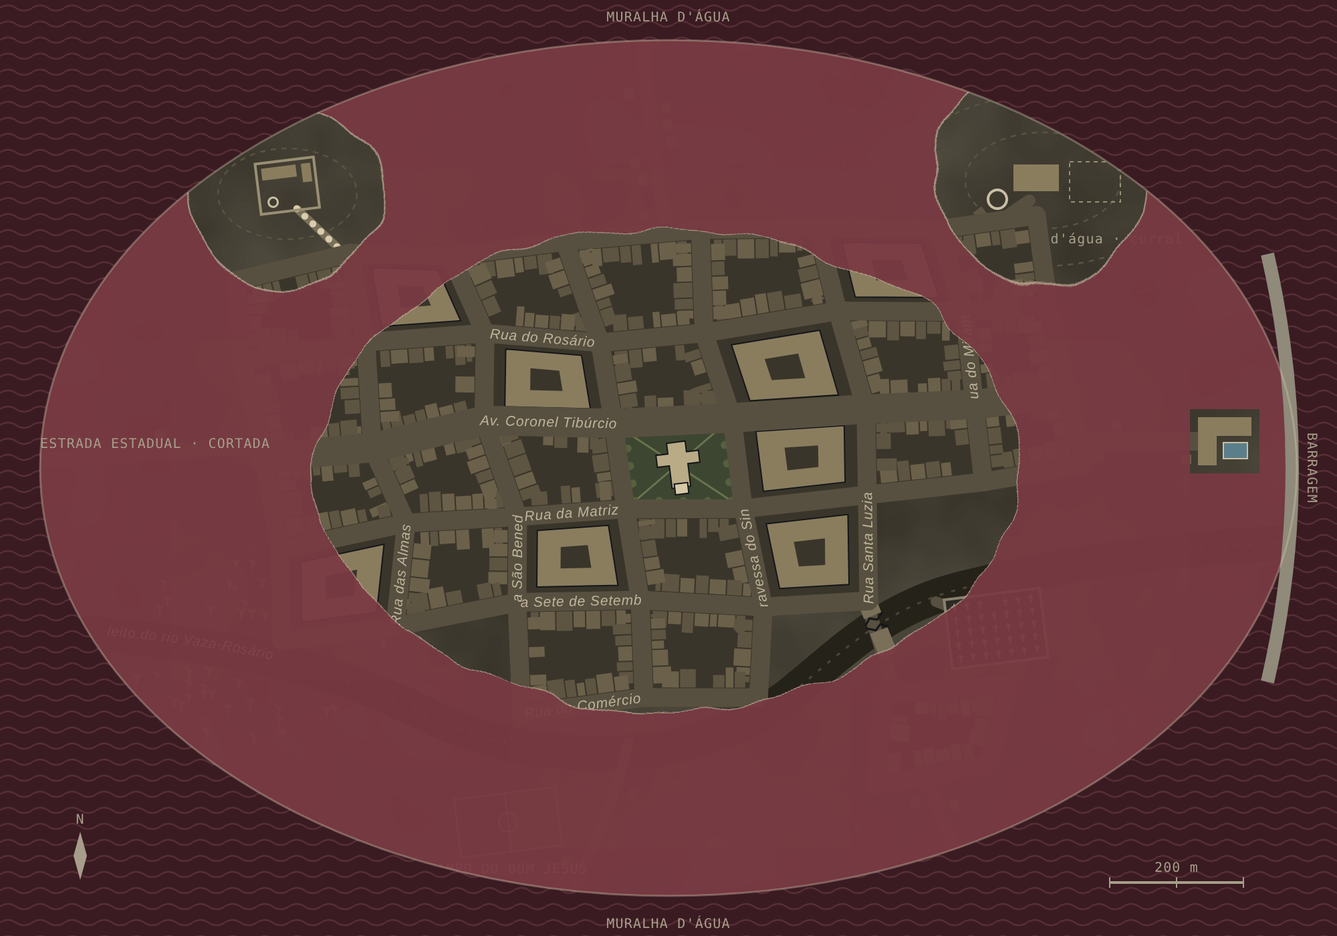
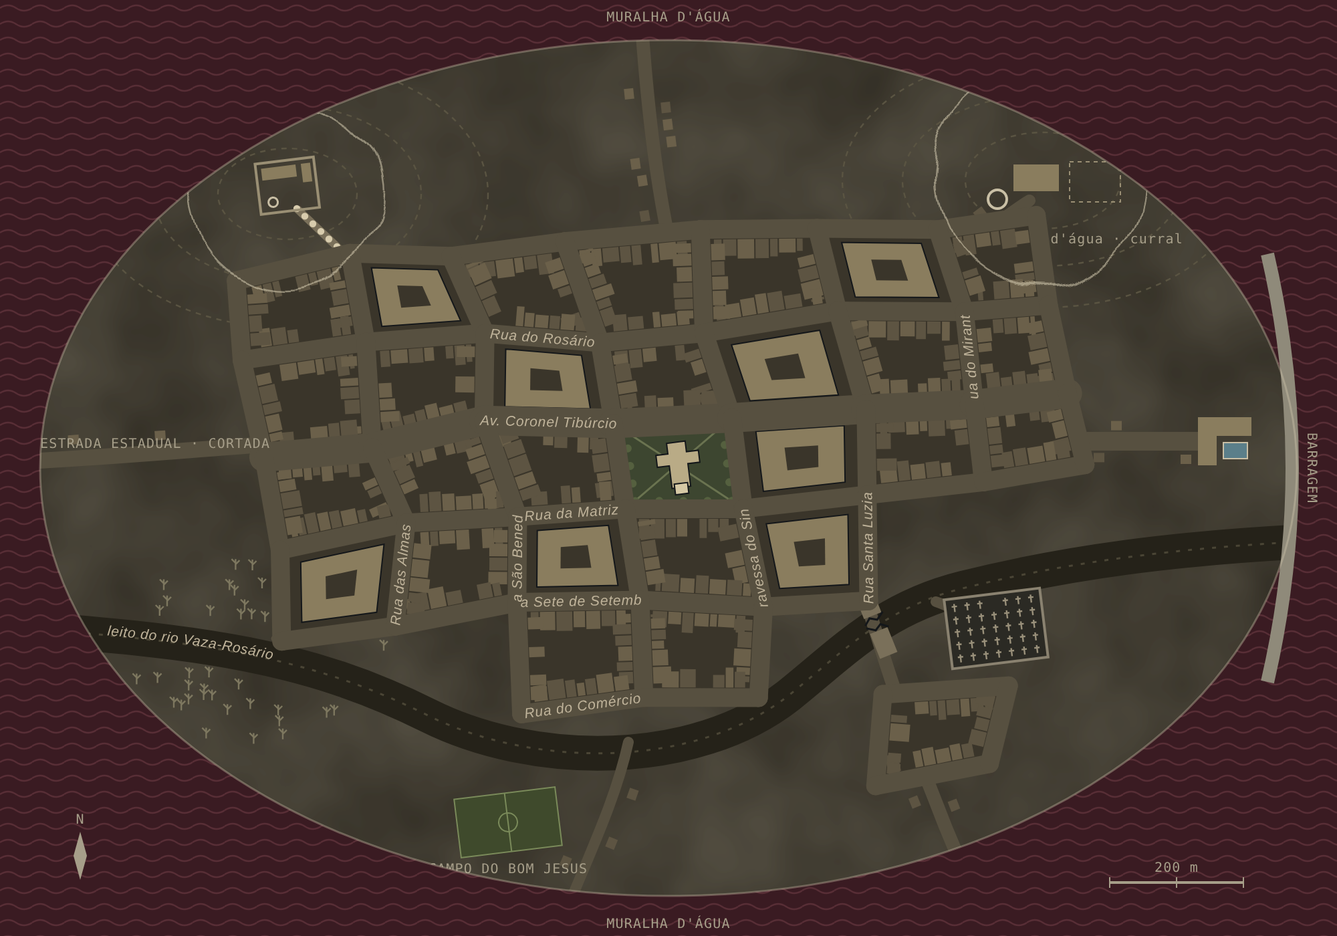
Mapa v1.2.0: a água só volta no dia 6
Dias 1 a 5 com a cidade toda seca e a represa mudando de cor; no dia 6
tudo afunda menos a praça da Matriz e o Hotel. Textos dos locais e dos
dias ajustados, imagens refeitas, rituais salvos atualizados sem perder
o que já foi liberado.

Claude-Session: https://claude.ai/code/session_01TH2mSxzafd1d5khUSYUmEi

diff --git a/mapa/locais.js b/mapa/locais.js
@@ -3,7 +3,7 @@
    txt = o que se vê ao chegar · din = detalhes que o mestre libera um a um
    alerta = aviso em destaque · notas = segredo e como descobrir (só o mestre vê) */
 
-export const VERSAO_LOCAIS = 2;
+export const VERSAO_LOCAIS = 3;
 
 export const EQUIPES = {
   "Os da Floresta": "#7f9b4f",
@@ -18,12 +18,12 @@ export const TIPOS = { base: "Base", enigma: "Enigma", explorar: "Exploração" 
 
 // texto completo do dia (só o mestre vê)
 export const DIAS_MESTRE = {
-  1: ["A água recua", "A cidade inteira reaparece. A represa ainda tem a cor de sempre."],
+  1: ["A água recua", "A cidade inteira reaparece. A represa ainda tem a cor de sempre. A água só volta no dia 6."],
   2: ["A represa escurece", "A água ainda não volta, mas a muralha começa a mudar de cor. Quem encosta nela sente que está morna."],
   3: ["A muralha treme", "A muralha range e escorre filetes vermelhos pelas ruas da borda. A cidade ainda está seca, mas não por muito tempo."],
-  4: ["A água volta", "A margem afunda de uma vez: Mata dos Afogados, Feira, Santa Casa e Cemitério. Fazenda, topo do Calvário e Hotel Bela Vista viram ilhas."],
-  5: ["A água vira sangue", "Matadouro, Ponte Partida, Casarão e o Calvário afundam. A represa está vermelha."],
-  6: ["Só a praça da Matriz", "O último anel da cidade afunda, a Fazenda junto. Resta a praça da igreja, no centro, cercada de sangue, e o Hotel ilhado na rocha."]
+  4: ["A represa ferve", "A cidade continua seca, mas a muralha está vermelho-escura e borbulha na base. À noite se ouve a água batendo como um sino."],
+  5: ["A água vira sangue", "A represa está vermelha como sangue. A cidade ainda está seca: é o último dia com todos os locais de pé."],
+  6: ["A água volta", "A represa desaba sobre a cidade de uma vez. Tudo afunda menos a praça da Matriz, no centro, e o Hotel Bela Vista, ilhado na rocha."]
 };
 
 // texto que os jogadores veem (sem entregar o que vai afundar)
@@ -31,9 +31,9 @@ export const DIAS_JOGADOR = {
   1: ["A água recua", "A cidade inteira reaparece, coberta de lama e limo."],
   2: ["A represa escurece", "A muralha d'água mudou de cor. Quem encosta nela sente que está morna."],
   3: ["A muralha treme", "A muralha range. Filetes vermelhos escorrem pelas ruas da borda."],
-  4: ["A água volta", "A represa avançou sobre a margem da cidade."],
-  5: ["A água vira sangue", "A água está vermelha e já chega aos bairros do meio."],
-  6: ["Só a praça da Matriz", "Sobrou a praça da igreja, cercada de sangue."]
+  4: ["A represa ferve", "A muralha está vermelho-escura e borbulha na base. À noite, a água bate como um sino."],
+  5: ["A água vira sangue", "A represa está vermelha como sangue. A muralha se curva sobre a cidade."],
+  6: ["A água volta", "A represa desabou. Sobrou a praça da igreja, cercada de sangue."]
 };
 
 const L = (o) => o;
@@ -53,14 +53,14 @@ export const LOCAIS_PADRAO = [
       "Melhoria · Enfermaria: 1 kit de cura (Santa Casa) + roupa de cama + 1 sucata. +2 em Medicina e +1d6 PV no descanso lá dentro.",
       "Melhoria · Gerador: 4 sucata + 1 galão de diesel (jipe da Delegacia ou carros da Ponte) + Tecnologia DT 20. Luz à noite (+2 Percepção); o letreiro acende se quiserem.",
       "Melhoria · Mirante no terraço: 2 sucata + binóculo da Delegacia (ou a luneta dos Queiroz). Uma vez por dia, ver quem entra e sai de três locais.",
-      "Melhoria · Filtro de água: 3 sucata + areia do rio + carvão de Os da Floresta. Até 2 água limpa por dia, até o dia 5.",
+      "Melhoria · Filtro de água: 3 sucata + areia do rio + carvão de Os da Floresta. Até 2 água limpa por dia, até o dia 4 (depois a represa fica vermelha demais).",
       "Melhoria · Horta da piscina: 2 água por dia durante 2 dias + mudas da Família Queiroz. Depois, 1 comida por dia.",
       "Melhoria · Despensa de conserva: 1 sucata + sal grosso dos Comensais. Comida guardada no hotel não estraga.",
       "Melhoria · Sala de leitura: 1 sucata + três livros da biblioteca dos Zahab. +2 em Investigação e Ocultismo no hotel.",
       "Melhoria · Salão de música: 2 sucata + um instrumento da Romaria (zabumba ou pífano). Uma noite de música por dia: todos recuperam 1d6 de Sanidade.",
       "Melhoria · Suíte 1: a chave (com o coronel, na Delegacia) ou Crime DT 25 + 2 sucata. Melhor quarto, com cofre e acesso ao terraço."
     ],
-    alerta: "Nunca afunda, mas vira ilha no dia 4: daí em diante só se chega nadando (Atletismo DT 15) ou pela passarela da barragem.",
+    alerta: "Nunca afunda, mas vira ilha no dia 6: daí em diante só se chega nadando (Atletismo DT 15) ou pela passarela da barragem.",
     notas: "SEGREDO: o coronel construiu o hotel sabendo da inundação (\"Lago Tibúrcio\", margens loteadas). A família esperou por ele na suíte na noite de 2 de maio; ele estava preso na Delegacia. Pouco antes das 3h do dia 3, Celina desceu com Clarinha para procurá-lo e as duas nunca voltaram. No cofre da suíte: carta do engenheiro (as comportas podiam fechar uma semana depois) e o recibo do que o coronel pagou para adiantar.\n\nCOMO DESCOBRIR: 1) placa + livro de hóspedes levantam a pergunta. 2) diário do zelador. 3) salão de música abre o alçapão do palco: disco com o ensaio do discurso (\"bem-vindos às margens do Lago Tibúrcio\"). 4) sala de leitura (planta) + gerador (luz no porão) levam à parede do depósito 2: maquete do loteamento (2 sucata, 1 hora). 5) chave da suíte com o corpo do coronel; na suíte, malas e bilhete \"desci com a Clarinha para te procurar\". 6) cofre da suíte: 14-08-62 (mesma combinação do Casarão). Mirante revela a luneta apontada para a torre; horta revela a placa \"Loteamento Praia do Lago\"." }),
 
   L({ id: "fazenda", nome: "Fazenda Alto do Cruzeiro", tipo: "base", eq: "Família Queiroz", x: 780, y: 128, alaga: 6,
@@ -74,14 +74,14 @@ export const LOCAIS_PADRAO = [
       "Escritura no fundo falso do oratório (Percepção DT 20): a fazenda foi do coronel Tibúrcio.",
       "Luneta de latão no quarto do coronel (Crime DT 20): uma vez por dia, ver o que uma equipe está fazendo."
     ],
-    alerta: "Vira ilha no dia 4 e só afunda no dia 6. É o refúgio mais cobiçado do fim do ritual.",
-    notas: "SEGREDO: o poço não acaba em água. A dez metros há um túnel antigo até a cripta da Matriz (Atletismo DT 20 com corda e luz). Chega por baixo ao campanário invertido, mas a passagem tem uma grade com cinco fechaduras.\n\nCOMO DESCOBRIR: 1) a corda é longa demais para cinco metros de poço (Percepção DT 15). 2) mapa de 1950 no sótão do Cartório mostra o túnel. 3) descer leva à grade; as chaves estão no cofre do Casarão.\n\nO poço fica vermelho no dia 6." }),
+    alerta: "Único poço de água limpa até o fim. Afunda no dia 6, com o resto da cidade.",
+    notas: "SEGREDO: o poço não acaba em água. A dez metros há um túnel antigo até a cripta da Matriz (Atletismo DT 20 com corda e luz). Chega por baixo ao campanário invertido, mas a passagem tem uma grade com cinco fechaduras.\n\nCOMO DESCOBRIR: 1) a corda é longa demais para cinco metros de poço (Percepção DT 15). 2) mapa de 1950 no sótão do Cartório mostra o túnel. 3) descer leva à grade; as chaves estão no cofre do Casarão.\n\nNo dia 5 a água do poço já sai rosada; no dia 6 a fazenda afunda." }),
 
-  L({ id: "calvario", nome: "Morro do Calvário", tipo: "base", eq: "A Romaria", x: 215, y: 140, alaga: 5,
+  L({ id: "calvario", nome: "Morro do Calvário", tipo: "base", eq: "A Romaria", x: 215, y: 140, alaga: 6,
     txt: "Uma escadaria de pedra com as 14 estações da Via-Sacra sobe até um topo murado: o Pouso dos Romeiros, de 1921, com rancho, cozinha, cisterna e a gruta onde o andor da santa descansa.",
     din: [
       "Áreas: escadaria (uma pessoa por vez), portão e muro com seteiras, rancho dos romeiros com redes para quarenta, cozinha comunitária, Casa dos Milagres (ex-votos), Gruta da Santa, cisterna, barracas de lembrança e cruzeiro.",
-      "Cisterna: 1 água limpa por dia, até o dia 3. Barracas: velas para seis noites e 1 sucata.",
+      "Cisterna: 1 água limpa por dia, até o dia 4. Barracas: velas para seis noites e 1 sucata.",
       "Baús do rancho: zabumba, pífano e matraca. O Hotel precisa de um deles para o salão de música.",
       "Estação 1: um sino de mão que avisa o topo quando alguém começa a subir.",
       "Estação 6 (Percepção DT 15): um pano com o rosto de alguém da mesa, marcado a sangue.",
@@ -92,7 +92,7 @@ export const LOCAIS_PADRAO = [
       "Cântico da Romaria (Religião DT 15): \"o sino que toca para dentro\" e \"a corda que a santa guarda\".",
       "A santa chora sangue quando um sacrifício morre, e a Romaria sabe antes de todos."
     ],
-    alerta: "No dia 4 a escadaria afunda até a estação 9 e o topo vira ilha. No dia 5 o morro inteiro vai para o fundo.",
+    alerta: "Afunda no dia 6. Antes disso, a Romaria vai querer levar o andor para a praça da Matriz em procissão.",
     notas: "SEGREDO: o andor tem fundo oco com a corda original do sino de Luzia. Sem ela (ou outra trançada com cabelo de um sacrifício) o enigma não se resolve. A Romaria só a entrega em troca de uma relíquia: uma parte do corpo de um sacrifício de outra equipe.\n\nCOMO DESCOBRIR: 1) a corda de Luzia falta na torre da Matriz. 2) o cântico fala da corda que a santa guarda. 3) sessão \"Festa do Bom Jesus\" no Cine Teatro mostra a corda amarrada no andor. 4) o fundo do andor soa oco (Percepção DT 20).\n\nPerigos: fundos do morro só por escalada (Atletismo DT 20); velas acesas deixam o topo visível à noite." }),
 
   L({ id: "mata", nome: "Mata dos Afogados", tipo: "base", eq: "Os da Floresta", x: 195, y: 480,
@@ -108,7 +108,7 @@ export const LOCAIS_PADRAO = [
       "Cova rasa na clareira (Investigação DT 20): um corpo com roupas de outra época.",
       "Placa caída: \"Bom Jesus do Açude, fundada em 1889\"."
     ],
-    alerta: "É a primeira base a afundar, no dia 4. A Floresta vai precisar tomar a casa de alguém.",
+    alerta: "Afunda no dia 6. Até lá, é o melhor terreno de emboscada da arena.",
     notas: "SEGREDO: a mata foi plantada pelo padre Anselmo, uma árvore para cada morador que saiu antes da inundação, com plaquinhas de latão nos troncos. Os que ficaram estão no cruzeiro da Fazenda.\n\nCOMO DESCOBRIR: 1) plaquinhas meio engolidas pela casca (Investigação DT 20). 2) nomes batem com os registros de mudança no porão do Cartório. 3) livro de tombo da Matriz: \"plantei hoje mais doze, uma por família que partiu\".\n\nO ano 1889 da placa abre o cofre do Cartório." }),
 
   L({ id: "matadouro", nome: "Matadouro Municipal", tipo: "base", eq: "Os Comensais", x: 480, y: 502,
@@ -122,8 +122,8 @@ export const LOCAIS_PADRAO = [
       "Cofre do fiscal (Crime DT 20): uma chave com etiqueta \"sacristia\". Abre o armário da sacristia da Matriz.",
       "A câmara fria tranca por fora: Fortitude DT 15 por hora ou 1d6 PV de frio. Chão da sala de abate escorregadio em combate."
     ],
-    alerta: "Base quase sempre desguarnecida à noite, porque os Comensais saem para caçar. Afunda no dia 5.",
-    notas: "SEGREDO: a câmara funciona com Sangue. Um coração humano pendurado ainda bate; destruí-lo faz a comida apodrecer na hora.\n\nCOMO DESCOBRIR: 1) não há fio, motor nem gerador (Tecnologia DT 15). 2) batida fraca dentro da câmara (Percepção DT 20). 3) embrulho de lona no gancho do fundo; Ocultismo DT 20 para entender. 4) o livro do fiscal completa a história.\n\nDepois do dia 5, a carne continua fresca para quem mergulhar (Atletismo DT 20)." }),
+    alerta: "Base quase sempre desguarnecida à noite, porque os Comensais saem para caçar. Afunda no dia 6.",
+    notas: "SEGREDO: a câmara funciona com Sangue. Um coração humano pendurado ainda bate; destruí-lo faz a comida apodrecer na hora.\n\nCOMO DESCOBRIR: 1) não há fio, motor nem gerador (Tecnologia DT 15). 2) batida fraca dentro da câmara (Percepção DT 20). 3) embrulho de lona no gancho do fundo; Ocultismo DT 20 para entender. 4) o livro do fiscal completa a história.\n\nNo dia 6, a carne continua fresca para quem mergulhar (Atletismo DT 20)." }),
 
   L({ id: "cartorio", nome: "Cartório, Biblioteca e Câmara", tipo: "base", eq: "Os Zahab", x: 612, y: 298, ly: -20,
     txt: "Sobrado de esquina com azulejo português, CARTÓRIO em letras de ferro e o brasão da cidade. Livros de registro inchados de água no térreo, biblioteca em cima e uma porta interna para a Câmara Municipal, ao lado.",
@@ -137,7 +137,7 @@ export const LOCAIS_PADRAO = [
       "Biblioteca: almanaque, código civil e anuário. O Hotel precisa deles para a sala de leitura.",
       "Papel, tinta e lacre: para falsificar documentos ou mandar recados."
     ],
-    alerta: "Muitas janelas, escada podre e livros que pegam fogo. Afunda no dia 6; no dia 5 a água já molha o térreo.",
+    alerta: "Muitas janelas, escada podre e livros que pegam fogo. Afunda no dia 6.",
     notas: "SEGREDO: a Câmara votou 7 a 2 contra a venda. O tabelião Oswaldo Brandão, pago pelo coronel, fez uma ata falsa com unanimidade e falsificou sete assinaturas. Confissão e o dinheiro intocado estão no cofre de parede.\n\nCOMO DESCOBRIR: 1) jornal de 1972 (Investigação DT 20) diz rejeitada; ata do gabinete diz aprovada. 2) comparar assinaturas com certidões de casamento (Investigação DT 20): sete na mesma letra. 3) a letra é a do tabelião. 4) cofre: Crime DT 20 ou 1-8-8-9 (brasão da fachada, placa da Mata). 5) sessão \"Sessão da Câmara\" no Cine Teatro mostra sete mãos contra." }),
 
   /* ---------------- enigma ---------------- */
@@ -165,8 +165,8 @@ export const LOCAIS_PADRAO = [
       "Jazigo dos Tibúrcio (Crime DT 20): joias e um revólver no caixão do coronel, mas nenhum corpo. Ao lado, gavetas vazias reservadas para Celina e Maria Clara.",
       "Flores frescas nos cinco (Percepção DT 15): alguém da arena esteve aqui hoje."
     ],
-    alerta: "Afunda no dia 4. Quem não anotou as datas perde a pista mais fácil.",
-    notas: "SEGREDO: o coronel nunca foi enterrado; o corpo está na cela trancada da Delegacia. O caixão é um enterro simbólico.\n\nCOMO DESCOBRIR: 1) caixão vazio. 2) livro de ocorrências e cela trancada da Delegacia. 3) gavetas de Celina e Maria Clara ligam ao mistério do Hotel.\n\nDepois do dia 4: datas no arquivo do Cartório ou no filme de 2 de maio do Cine Teatro; deitar no túmulo exige mergulhar (Fortitude DT 20)." }),
+    alerta: "Afunda no dia 6. Quem não anotou as datas até lá perde a pista mais fácil.",
+    notas: "SEGREDO: o coronel nunca foi enterrado; o corpo está na cela trancada da Delegacia. O caixão é um enterro simbólico.\n\nCOMO DESCOBRIR: 1) caixão vazio. 2) livro de ocorrências e cela trancada da Delegacia. 3) gavetas de Celina e Maria Clara ligam ao mistério do Hotel.\n\nNo dia 6: datas no arquivo do Cartório ou no filme de 2 de maio do Cine Teatro; deitar no túmulo exige mergulhar (Fortitude DT 20)." }),
 
   L({ id: "correios", nome: "Correios", tipo: "explorar", eq: "", x: 390, y: 280, ly: -16,
     txt: "Agência pequena de placa amarela e azul desbotada, com uma caixa de coleta trancada na calçada. Escaninhos de madeira e sacos de lona até o teto. O último carimbo marca 02 MAI 1974.",
@@ -177,7 +177,7 @@ export const LOCAIS_PADRAO = [
       "Telegrama posto na caixa de coleta chega ao escaninho de outra base na manhã seguinte.",
       "Ler carta de morto: Vontade DT 15 ou passa a noite sem descanso."
     ],
-    alerta: "Afunda no dia 6. No dia 5 a água encharca os sacos de baixo.",
+    alerta: "Afunda no dia 6, com as cartas que ninguém leu.",
     notas: "SEGREDO: a caixa de coleta ainda entrega tudo, inclusive para as equipes NPC. Canal para negociar sem se encontrar e para ameaças.\n\nCOMO DESCOBRIR: 1) formulários com carimbo da data de hoje (Percepção DT 15). 2) carta posta some; a caixa aberta (Crime DT 20) está vazia. 3) na manhã seguinte, a carta chega ao destino." }),
 
   L({ id: "cine", nome: "Cine Teatro", tipo: "explorar", eq: "", x: 400, y: 420, ly: 24,
@@ -194,7 +194,7 @@ export const LOCAIS_PADRAO = [
       "Coroa de espinhos de arame nas coxias: +5 na Vontade do erro durante o toque. Doces da bombonière: 1 comida.",
       "Interromper a sessão: Vontade DT 20 ou fica preso na cadeira. Teto podre em combate."
     ],
-    alerta: "Afunda no dia 6. Na noite do dia 5, a sessão roda com o saguão já alagado.",
+    alerta: "Afunda no dia 6, com a plateia de roupas vazias ainda sentada.",
     notas: "SEGREDO: o operador era Adauto, zelador do Hotel. O filme de 2 de maio foi feito do terraço do hotel, com a luneta, a pedido do coronel.\n\nCOMO DESCOBRIR: 1) escala na porta da cabine: só \"Adauto\". 2) a letra das etiquetas é a do diário do zelador (Investigação DT 15). 3) a grade de varanda no canto da imagem é a do terraço do Hotel." }),
 
   L({ id: "santa", nome: "Santa Casa", tipo: "explorar", eq: "", x: 310, y: 200, ly: -16,
@@ -208,7 +208,7 @@ export const LOCAIS_PADRAO = [
       "Hábitos das freiras: a Romaria ignora quem os usa até falar ou atacar.",
       "Ficar ferido na enfermaria: Vontade DT 15 por hora ou 1d4 de Sanidade."
     ],
-    alerta: "Afunda no dia 4. Na manhã do dia 4 ainda há uma hora antes de a água chegar à farmácia.",
+    alerta: "Afunda no dia 6. Os remédios que sobrarem vão junto.",
     notas: "SEGREDO: o padre afogou os cinco num ritual para preparar o sino, um por santo. O paciente da ala trancada era o coroinha e viu tudo.\n\nCOMO DESCOBRIR: 1) prontuários. 2) filme da Ponte no Cine Teatro (Irmandade dos Sinos). 3) o paciente conta, se solto e bem tratado (Diplomacia DT 15)." }),
 
   L({ id: "delegacia", nome: "Delegacia", tipo: "explorar", eq: "", x: 600, y: 410, ly: 24,
@@ -237,7 +237,7 @@ export const LOCAIS_PADRAO = [
       "Adega: 2 água (vinho). Porta emparedada (2 sucata, 1 hora): 3 sucata e um castiçal (1d6).",
       "Dormir aqui: sonha que é o coronel e acorda com –1d4 de Sanidade."
     ],
-    alerta: "Afunda no dia 5. O cofre abre do mesmo jeito para quem mergulhar.",
+    alerta: "Afunda no dia 6. O cofre abre do mesmo jeito para quem mergulhar.",
     notas: "COFRE: 14-08-62 (bilhete + retrato + caderno; ano = 1973 - 11). Outras fontes: certidão no Cartório, sessão \"Os 11 anos de Clarinha\", caderninho do coronel. A mesma combinação abre o cofre da Suíte 1.\n\nSEGREDO: as chaves abrem a grade da cripta e chegam ao Sino sem o enigma, mas sem a marca de espinhos: tocar sem a marca mata. Para ter a marca, alguém deita no túmulo do padre enquanto outro abre a grade.\n\nCOMO DESCOBRIR: nomes das chaves = fechaduras da grade; selo da coroa (\"só aceita quem foi chamado\"); Ocultismo DT 25 para entender que as duas coisas precisam ser juntas." }),
 
   L({ id: "ponte", nome: "Ponte Partida", tipo: "explorar", eq: "", x: 655, y: 466, anchor: "end", lx: -14, ly: 20,
@@ -250,7 +250,7 @@ export const LOCAIS_PADRAO = [
       "Urubus voam em círculo sobre onde alguém morreu hoje.",
       "Combate na ponte: 1 em 6 por rodada de cair um pedaço do tabuleiro norte."
     ],
-    alerta: "Gargalo entre o centro e o Cemitério. Afunda no dia 5; no dia 4 a correnteza arrasta quem cai.",
+    alerta: "Gargalo entre o centro e o Cemitério. Afunda no dia 6.",
     notas: "SEGREDO: o padre explodiu a ponte com dinamite das obras da barragem, para ninguém levar os corpos dos cinco antes do ritual.\n\nCOMO DESCOBRIR: 1) ferragens estouradas para fora, com queimado (Percepção DT 20 ou Ciências DT 15). 2) pavio e caixote \"Obras da Barragem — Explosivos\" no leito (Investigação DT 15). 3) livro de tombo: \"pedi ao Senhor que me perdoe pela ponte\". 4) filme da inauguração no Cine Teatro." }),
 
   L({ id: "feira", nome: "A Feira", tipo: "explorar", eq: "", x: 240, y: 450, anchor: "end", lx: -12, ly: -14,
@@ -265,6 +265,6 @@ export const LOCAIS_PADRAO = [
       "Faixa \"NÃO SAIO\" atrás do balcão do bar, com assinaturas no verso.",
       "Correr pelo largo: Acrobacia DT 15 ou 1d4 de pregos e lata."
     ],
-    alerta: "A maior reserva de comida da arena, mas tudo está escondido e o largo é visível de várias bases. Afunda no dia 4.",
-    notas: "SEGREDO: o Comitê do Não Saio (os nomes do cruzeiro da Fazenda) escondeu comida para resistir à desapropriação. O padre era o tesoureiro. Nunca usaram: a água chegou uma semana antes, a semana que o coronel comprou.\n\nCOMO DESCOBRIR: 1) pichação da Ponte e faixa do bar. 2) assinaturas = nomes do cruzeiro (Investigação DT 15). 3) sessão \"Feira de sábado\" no Cine Teatro. 4) caderno do comitê sob o assoalho do coreto (Percepção DT 20): mapa de todos os esconderijos (com ele, sem teste) e assinatura \"Pe. Anselmo\".\n\nNo dia 4, o porão ainda dá 1 comida por mergulho (Atletismo DT 20)." })
+    alerta: "A maior reserva de comida da arena, mas tudo está escondido e o largo é visível de várias bases. Afunda no dia 6.",
+    notas: "SEGREDO: o Comitê do Não Saio (os nomes do cruzeiro da Fazenda) escondeu comida para resistir à desapropriação. O padre era o tesoureiro. Nunca usaram: a água chegou uma semana antes, a semana que o coronel comprou.\n\nCOMO DESCOBRIR: 1) pichação da Ponte e faixa do bar. 2) assinaturas = nomes do cruzeiro (Investigação DT 15). 3) sessão \"Feira de sábado\" no Cine Teatro. 4) caderno do comitê sob o assoalho do coreto (Percepção DT 20): mapa de todos os esconderijos (com ele, sem teste) e assinatura \"Pe. Anselmo\".\n\nNo dia 6, o porão ainda dá 1 comida por mergulho (Atletismo DT 20)." })
 ];

diff --git a/mapa/cidade.js b/mapa/cidade.js
@@ -1,12 +1,12 @@
 /* Desenho da cidade de Bom Jesus do Açude (SVG 1000 x 700).
    Usado pela extensão e pelo gerador de imagens. Determinístico: sempre o mesmo traçado. */
 
-export const S = [1.08, 1.08, 1.08, .56, .40, .24];   // tamanho da terra seca por dia
+export const S = [1.08, 1.08, 1.08, 1.08, 1.08, .24];   // a água só volta no dia 6   // tamanho da terra seca por dia
 export const AGUA = ["#3d6672", "#4e5c66", "#654b55", "#7a3a43", "#842631", "#741520"];
 export const MURALHA = ["#1d3239", "#272b33", "#30232b", "#3a1b22", "#3c1218", "#330b10"];
 export const ONDA = ["#2f4f58", "#3b4550", "#4a3a44", "#582e36", "#5e2229", "#55161d"];
 export const COTA = [382, 389, 396, 403, 410, 417];
-export const ILHAS = [{ x: 780, y: 135, r: 80, ate: 6 }, { x: 215, y: 145, r: 72, ate: 5 }];
+export const ILHAS = [{ x: 780, y: 135, r: 80, ate: 6 }, { x: 215, y: 145, r: 72, ate: 6 }];
 export const USINA = /* Pedra do Mirante, onde fica o Hotel Bela Vista */ { x: 890, y: 306, w: 52, h: 48 };
 
 export const rElip = (x, y) => Math.hypot((x - 500) / 470, (y - 350) / 320);
@@ -42,7 +42,7 @@ const ESTATICO = `
     <g filter="url(#recorte)">
       <ellipse class="terra" cx="500" cy="350" rx="470" ry="320" fill="black"/>
       <circle class="ilha" data-ate="6" cx="780" cy="135" r="80" fill="black"/>
-      <circle class="ilha" data-ate="5" cx="215" cy="145" r="72" fill="black"/>
+      <circle class="ilha" data-ate="6" cx="215" cy="145" r="72" fill="black"/>
     </g>
     <rect x="890" y="306" width="52" height="48" fill="black"/>
   </mask>
@@ -111,7 +111,7 @@ const ESTATICO = `
   <g class="costa" fill="none" stroke="#d9cfb4" stroke-width="1.2" opacity="0" filter="url(#recorte)">
     <ellipse class="terra" cx="500" cy="350" rx="470" ry="320"/>
     <circle class="ilha" data-ate="6" cx="780" cy="135" r="80"/>
-    <circle class="ilha" data-ate="5" cx="215" cy="145" r="72"/>
+    <circle class="ilha" data-ate="6" cx="215" cy="145" r="72"/>
   </g>
 </g>
 <path d="M948,190 Q985,350 948,510" fill="none" stroke="#8f8a7a" stroke-width="10"/>

diff --git a/mapa/app.js b/mapa/app.js
@@ -59,7 +59,9 @@ function carregar() {
 /* Atualiza um ritual salvo com os textos novos dos locais padrão.
    Mantém o que o mestre já liberou (estado, dias, posição) e as notas que ele escreveu. */
 function migrar(s) {
-  if ((s.v || 1) >= VERSAO_LOCAIS) return s;
+  const v = s.v || 1;
+  if (v >= VERSAO_LOCAIS) return s;
+  if (v === 2) return migrarTextos(s);
   const forca = s.locais.find((l) => l.id === "forca");
   if (forca) forca.id = "hotel";
   for (const d of LOCAIS_PADRAO) {
@@ -74,8 +76,27 @@ function migrar(s) {
     if (d.id === "hotel") revelarTudo(l, l.desde?.explorado || 1, false);
   }
   s.v = VERSAO_LOCAIS;
-  lsSet(lsKey(), JSON.stringify(s));
   (s.log ||= []).push({ dia: s.dia || 1, t: "Locais atualizados para a versão 2 do guia", at: Date.now() });
+  lsSet(lsKey(), JSON.stringify(s));
+  return s;
+}
+
+/* Da versão 2 para a 3 (a água só volta no dia 6): troca só os textos e o dia em que
+   cada local afunda, mantendo o que já foi liberado detalhe por detalhe. */
+function migrarTextos(s) {
+  const MARCA = "\n\n— Suas notas anteriores —\n";
+  for (const d of LOCAIS_PADRAO) {
+    const l = s.locais.find((z) => z.id === d.id);
+    if (!l) continue;
+    const novo = localPadrao(d);
+    Object.assign(l, { txt: novo.txt, alerta: novo.alerta, alaga: novo.alaga });
+    novo.din.forEach((x, i) => { if (l.din[i]) l.din[i].t = x.t; else l.din.push(x); });
+    const i = (l.notas || "").indexOf(MARCA);
+    l.notas = novo.notas + (i >= 0 ? l.notas.slice(i) : "");
+  }
+  s.v = VERSAO_LOCAIS;
+  (s.log ||= []).push({ dia: s.dia || 1, t: "A água agora só volta no dia 6", at: Date.now() });
+  lsSet(lsKey(), JSON.stringify(s));
   return s;
 }
 let pubTimer;
